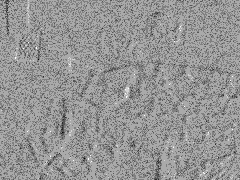
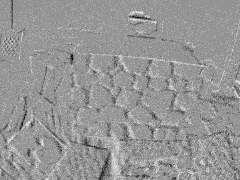
huge Qk result in better psnr, why?

diff --git a/eva_diff.py b/eva_diff.py
@@ -80,11 +80,13 @@ def calculate_metrics2(image_dir1, image_dir2):
         # Calculate MSE and PSNR between difference images
         diff_image1 = curr_image1 - prev_image1
         diff_image2 = curr_image2 - prev_image2
-        diff_image1_normalized = cv2.normalize(diff_image1, None, 0, 255, cv2.NORM_MINMAX, dtype=cv2.CV_8U)
-        diff_image2_normalized = cv2.normalize(diff_image2, None, 0, 255, cv2.NORM_MINMAX, dtype=cv2.CV_8U)
-        # 保存图像
-        cv2.imwrite('diff_image1.png', diff_image1_normalized)
-        cv2.imwrite('diff_image2.png', diff_image2_normalized)
+
+        # diff_image1_normalized = cv2.normalize(diff_image1, None, 0, 255, cv2.NORM_MINMAX, dtype=cv2.CV_8U)
+        # diff_image2_normalized = cv2.normalize(diff_image2, None, 0, 255, cv2.NORM_MINMAX, dtype=cv2.CV_8U)
+        # # 保存图像
+        # cv2.imwrite('diff_image1.png', diff_image1_normalized)
+        # cv2.imwrite('diff_image2.png', diff_image2_normalized)
+        
         mse_value = mse(diff_image1, diff_image2)
         psnr_value = psnr(mse_value)
 
@@ -99,8 +101,8 @@ def calculate_metrics2(image_dir1, image_dir2):
 # filter_image_dir = "data/mic_colmap_easy/output_images"
 # # filter_image_dir = "data/mic_colmap_easy/output_images_pure"
 
-# true_image_dir = "data/boxes_6dof/images"
-true_image_dir = "data/boxes_6dof/output_images_pure"
+true_image_dir = "data/boxes_6dof/images"
+# true_image_dir = "data/boxes_6dof/output_images_pure"
 # e2_image_dir = "data/boxes_6dof/images_e2"
 # filter_image_dir = "data/boxes_6dof/output_images_com"
 filter_image_dir = "data/boxes_6dof/output_images"

diff --git a/LinearMV.py b/LinearMV.py
@@ -70,9 +70,9 @@ class KalmanFilter:
         # sigma_iso = 0.03
         
         #RK should around 1, may be I should not divide c
-        sigma_ref = 0.1
-        sigma_proc = 0.005
-        sigma_iso = 0.3
+        sigma_ref = 0.01
+        sigma_proc = 0.0005
+        sigma_iso = 0.03
         t_diff = (t-self.time_surface[y,x])
         Q_proc = sigma_proc*(t_diff)
 
@@ -135,7 +135,7 @@ class KalmanFilter:
                 # #Sk is wkvk, Qk is wkwk, R is vkvk, normally Rk> QK
                 # but your xk+1 is totally blind, thus Qk more than c^2, while Rk can be small(from oberve data)
                 Sk=0
-                Qk=4/9*c*c * 10
+                Qk=4/9*c*c *10000
                 Rk=self.getRk(e.x,e.y,e.t)
                 #update
                 P = covariance_state[e.y, e.x]
@@ -208,7 +208,7 @@ class KalmanFilter:
                              + self.c * diff_state[e.y,e.x]
 
         return image_list
-def save_image(image, index, folder_path="D:/2024/3DGS/PureEventFilter/data/mic_colmap_easy/output_images"):
+def save_image(image, index, folder_path="D:/2024/3DGS/PureEventFilter/data/boxes_6dof/output_images"):
     if not os.path.exists(folder_path):
         os.makedirs(folder_path)
     file_path = os.path.join(folder_path, f"{index:05d}.png")

diff --git a/main.py b/main.py
@@ -112,13 +112,13 @@ def leaky_integrator(event_data, beta=1.0,c=0.01):
 
 with Timer('Loading'):
     n_events = 1e8
-    path_to_events = "D:/2024/3DGS/PureEventFilter/data/mic_colmap_easy/mic_volt.txt"
-    event_data = load_events_volt(path_to_events, n_events)
-    # path_to_events = "D:/2024/3DGS/PureEventFilter/data/boxes_6dof/events.zip"
-    # event_data = load_events(path_to_events, n_events)           
+    # path_to_events = "D:/2024/3DGS/PureEventFilter/data/mic_colmap_easy/mic_volt.txt"
+    # event_data = load_events_volt(path_to_events, n_events)
+    path_to_events = "D:/2024/3DGS/PureEventFilter/data/boxes_6dof/events.zip"
+    event_data = load_events(path_to_events, n_events)           
 
-event_data.add_frame_data('data/mic_colmap_easy')
-# event_data.add_frame_data('data/boxes_6dof')
+# event_data.add_frame_data('data/mic_colmap_easy')
+event_data.add_frame_data('data/boxes_6dof')
 
 # complementary_filter(event_data=event_data, cutoff_frequency=20)
 filter = KalmanFilter(event_data=event_data,c=0.01)
